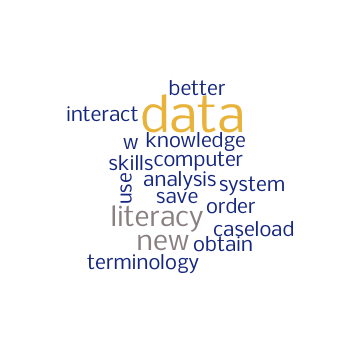
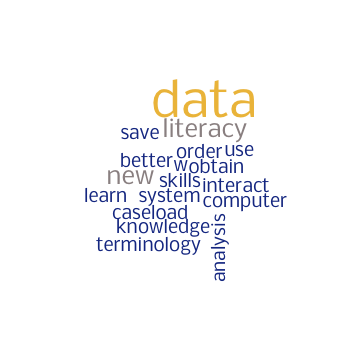
10-9-2018 second build

Changed region(s): [[0.1833, 0.2139, 0.825, 0.7944]]

diff --git a/slides_on_data.html b/slides_on_data.html
@@ -4,11 +4,7 @@
     <title>Data Literacy</title>
     <meta charset="utf-8">
     <meta name="author" content="Martin Gleason, MS" />
-<<<<<<< HEAD
-    <meta name="date" content="2018-10-03" />
-=======
     <meta name="date" content="2018-10-09" />
->>>>>>> master
     <script src="libs/kePrint-0.0.1/kePrint.js"></script>
     <link rel="stylesheet" href="libs/remark-css/default.css" type="text/css" />
     <link rel="stylesheet" href="pro_presentation.css" type="text/css" />
@@ -27,11 +23,7 @@ class: inverse, center
 
 .center[&lt;iframe width="560" height="315" src="https://www.youtube.com/embed/videoseries?list=PLlcpS_fiQECCWSmK5Uom236PXE6hEVz22" frameborder="0" allow="autoplay; encrypted-media" allowfullscreen&gt;&lt;/iframe&gt;]
 
-<<<<<<< HEAD
-.bottom[.right[Wednesday, October 03 2018]]
-=======
 .bottom[.right[Tuesday, October 09 2018]]
->>>>>>> master
 
 
 ???
@@ -203,11 +195,7 @@ class: center
 &lt;img src="slides_on_data_files/figure-html/word_cloud-1.png" style="display: block; margin: auto;" /&gt;
 
 .footnote[
-<<<<<<< HEAD
-#####[1]From a total of 6 registrants.]
-=======
 #####[1]From a total of 7 registrants.]
->>>>>>> master
 
 ???
 * Wordcloud for discussion of metric and data
